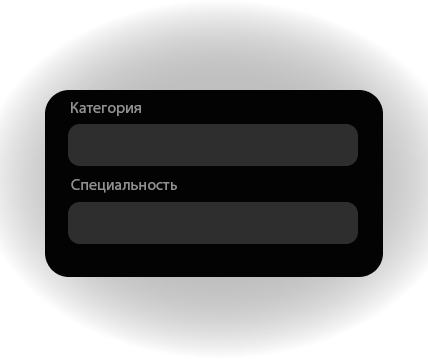
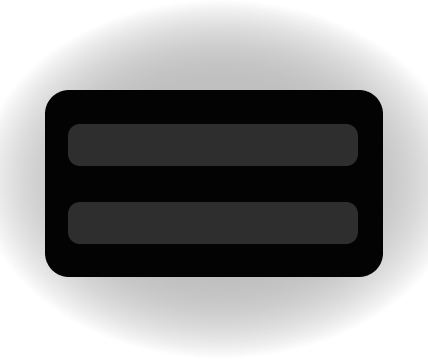
fix

Changed region(s): [[0.1519, 0.4903, 0.4252, 0.5515], [0.1519, 0.2758, 0.3341, 0.337]]

diff --git a/src/pages/NewWorker/NewWorker.js b/src/pages/NewWorker/NewWorker.js
@@ -173,7 +173,8 @@ const NewWorker = () => {
 
             <div style={{display: 'flex', flexDirection: 'column', height: '100vh', position: 'fixed'}}>
 
-                <div className='form-new-worker1' style={{ backgroundImage: `url(${formCategory})`}}>       
+                <div className='form-new-worker1' style={{ backgroundImage: `url(${formCategory})`}}>   
+                    <p style={{position: 'absolute', top: '90px', left: '65px', fontSize: '14px'}}>Категория</p>    
                     <NewSelect
                         id="category"
                         // title="Категория"
@@ -183,6 +184,7 @@ const NewWorker = () => {
                         onChange={onCategoriesSelectChange}
                     />  
 
+                    <p style={{position: 'absolute', top: '165px', left: '65px', fontSize: '14px'}}>Специальность</p>   
                     <NewSelect2
                         disabled={disabled}
                         id="model"
@@ -209,7 +211,10 @@ const NewWorker = () => {
 
 
                 {/*список работников*/}
-                <WorkerList remove={removeWorker} workers={workers} />
+                {/* <div style={{zIndex: '2', position: 'relative', boxSizing: 'border-box', height: '150px', overflow: 'auto'}}> */}
+                    <WorkerList remove={removeWorker} workers={workers} />
+                {/* </div> */}
+                
                 
                 <Link to={'/add-worker2'}><button className="image-button-next" style={{ backgroundImage: `url(${btnBack})`, marginBottom: "15px", visibility: showNext ? "visible" : "hidden"}}>Далее</button></Link>
                 {/* <Link to={'/add-worker2'}><MyButton style={{marginBottom: "15px", width: "220px", visibility: showNext ? "visible" : "hidden"}}>Далее</MyButton></Link>      */}

diff --git a/src/pages/NewWorker3/NewWorker3.js b/src/pages/NewWorker3/NewWorker3.js
@@ -11,7 +11,7 @@ import Fon from "../../image/icons/U.L.E.Y_triangle4_main2.png";
 import FonGradTop from "../../image/layers/upper_red_corner_menu2.png";
 import FonGradBottom from "../../image/layers/lower_blue_corner_menu.png";
 
-import formCity from "../../image/newspec/form_city.png"
+import formCity from "../../image/newspec/form_category.png"
 import btnBackNext from "../../image/newspec/button_back.png"
 import smallMenu from "../../image/layers/ULEY text.png"
 
@@ -155,6 +155,7 @@ const NewWorker3 = () => {
                             value={city}
                         /> 
                         {/*Год рождения*/}
+                        <p style={{position: 'absolute', top: '185px', left: '70px', fontSize: '14px'}}>Год рождения</p>  
                         <NewSelect2
                             id="dateborn"
                             // title="Год рождения"

diff --git a/src/components/WorkerItem/WorkerItem.css b/src/components/WorkerItem/WorkerItem.css
@@ -12,7 +12,7 @@
 }
 
 .form-new-spec {
-    width: 260px;
+    width: 290px;
     height: 50px;
     border: none;
     background-size: cover;
@@ -21,7 +21,8 @@
     font-size: 15px;
     cursor: pointer;
     display: flex;
-    justify-content: center;
+    justify-content: flex-start;
     align-items: center;
-    padding-bottom: 2px;
+    /* padding-bottom: 2px; */
+    padding-left: 70px;
 }

diff --git a/src/pages/NewWorker3/NewWorker3.css b/src/pages/NewWorker3/NewWorker3.css
@@ -36,13 +36,13 @@
 }
 
 .input-style-city {
-    width: 270px;
+    width: 290px;
     margin: 0 0;
     border: none;
     height: 38px;
     background-color: transparent;
-    margin-top: 115px;
-    margin-left: 60px;
+    margin-top: 130px;
+    /* margin-left: 60px; */
     padding: 0 10px;
     color: #fff;
 }
